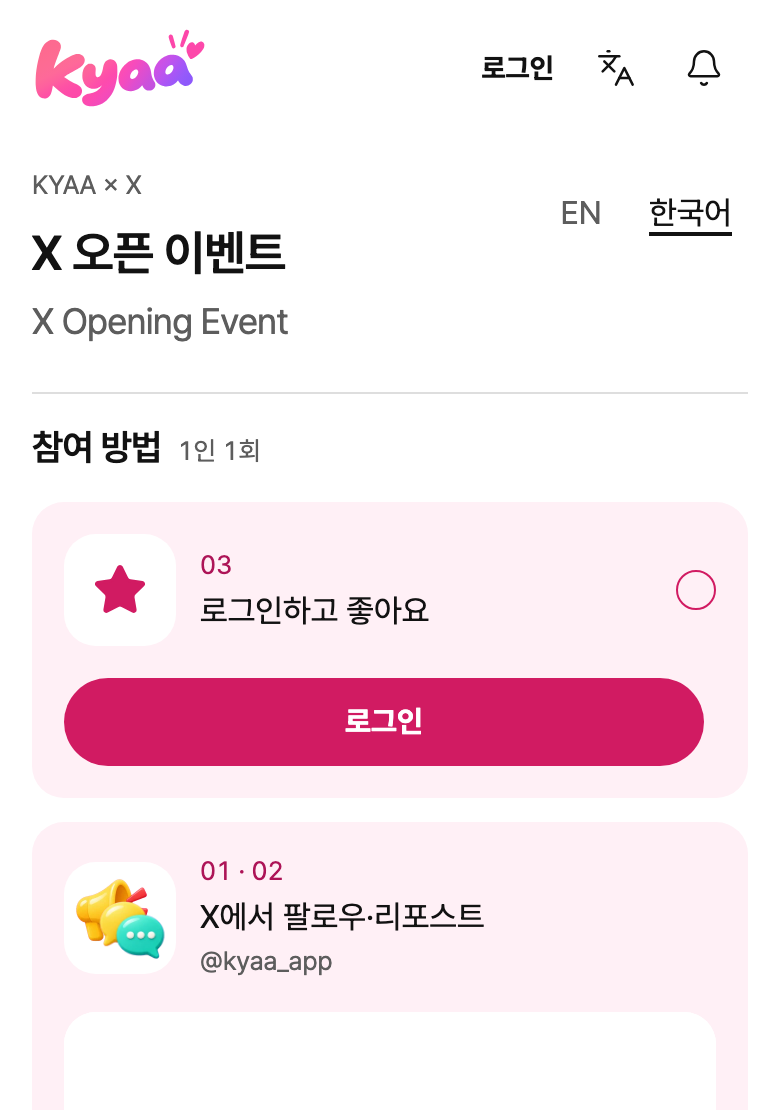
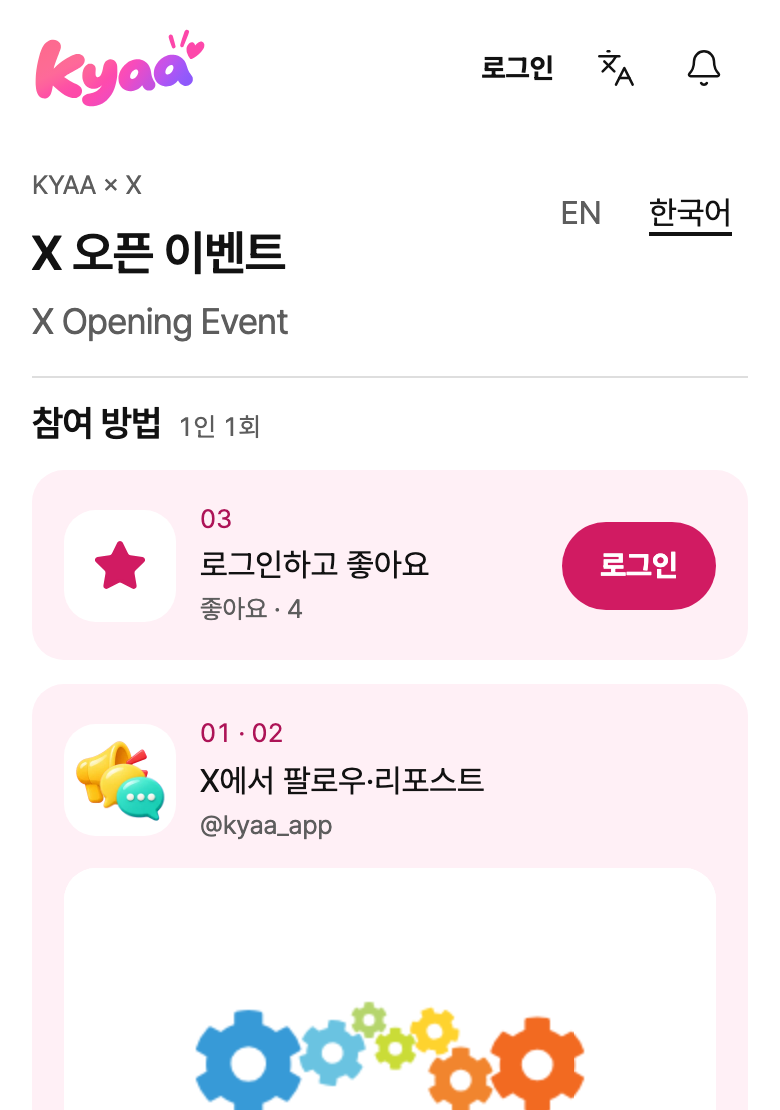
fix(follow): compact mobile 03 card so Gleam actions reach the first screen
Before liking, the 03 button sits on the title row; tighter mobile gaps.

diff --git a/apps/web/app/follow/follow-mission.module.css b/apps/web/app/follow/follow-mission.module.css
@@ -46,6 +46,16 @@
 .panel { display: grid; gap: var(--space-6); align-content: start; min-width: 0; }
 .visual { order: 1; }
 .card[data-mission="like"] { order: -1; }
+/* 휴대폰 압축(보석 21:04 '압축 UI'): 좋아요 전 03 카드는 버튼을 제목 줄 오른쪽에 둬 한 줄로. Gleam의 팔로우·리포스트 줄까지 첫 화면에 올라온다 */
+@media (width < 64rem) {
+  .panel { gap: var(--space-4); }
+  .missions, .card { gap: var(--space-3); }
+  .missions { padding-top: var(--space-3); }
+  .card[data-mission="like"]:not([data-done]) { grid-template-columns: minmax(0, 1fr) auto; align-items: center; }
+  .card[data-mission="like"]:not([data-done]) .cardHead { grid-template-columns: calc(var(--space-12) + var(--space-2)) minmax(0, 1fr); }
+  .card[data-mission="like"]:not([data-done]) .todo { display: none; }
+  .card[data-mission="like"]:not([data-done]) > p { grid-column: 1 / -1; }
+}
 
 /* PC: 왼쪽 4 = 제목 위·작은 키 비주얼 아래(대표 21:03 제보 187446), 오른쪽 8 = 카드 두 장 나란히(01·02 | 03). 1440×900 첫 화면에 Gleam 전체와 03 버튼이 든다 */
 @media (width >= 64rem) {
